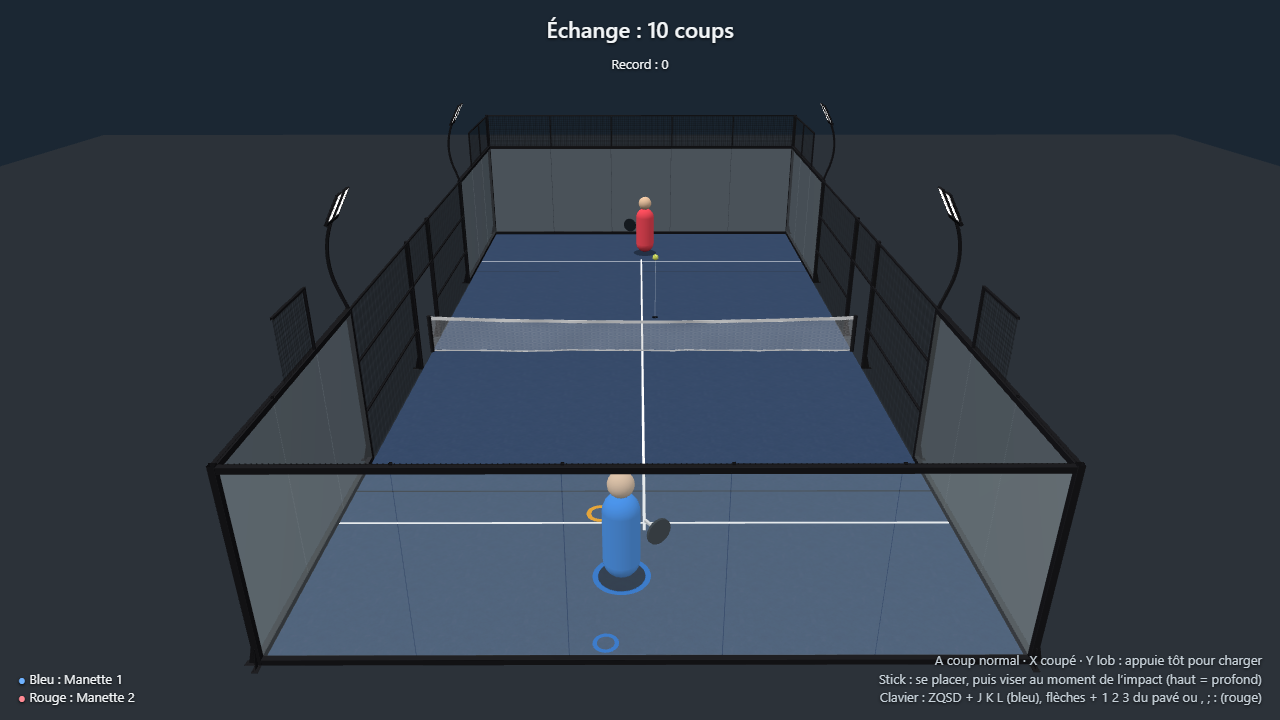
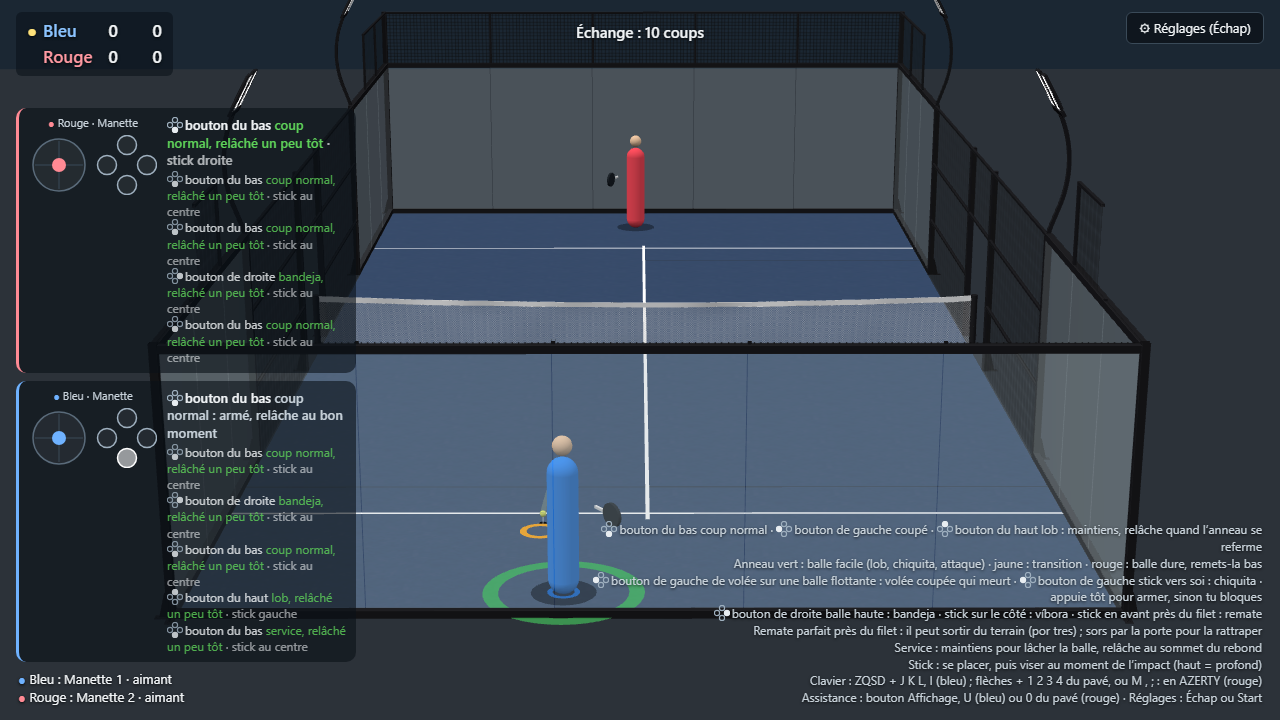
Proportions réelles et cadrage télé
- Balle de 6,5 cm, raquette réglementaire (45,5 cm, tamis 26 × 29 cm dans le plan du manche),
  joueur de 1,80 m à la silhouette plus fine.
- Comme dans Virtua Tennis ou Top Spin, la balle ne descend jamais sous 0,9 % de la hauteur de
  l'écran au loin, avec une traînée sur les balles rapides.
- Caméra de retransmission : téléobjectif à 8,7 m de haut, 20 m derrière le fond, champ de 20°,
  calé sur des images du Premier Padel ; le champ s'élargit sur les écrans moins larges que 16:9.

diff --git a/src/render/duelScene.ts b/src/render/duelScene.ts
@@ -1,5 +1,5 @@
 import * as THREE from 'three';
-import { HALF_LENGTH, SIM_DT } from '../sim/constants';
+import { BALL_RADIUS, HALF_LENGTH, SIM_DT } from '../sim/constants';
 import type { Duel, DuelPlayer } from '../sim/duel';
 import { predictBall } from '../sim/predict';
 import { ballColor, type BallColor } from '../sim/pressure';
@@ -19,17 +19,29 @@ const BALL_COLORS: Record<BallColor, number> = { verte: 0x46d160, jaune: 0xffd23
 /** Couleurs d'équipe vives, lisibles de loin (GAME_DESIGN.md §9). */
 export const TEAM_COLORS = [0x2f8cff, 0xff4f5e] as const;
 
-/** Balle surdimensionnée à l'écran pour rester lisible de loin. [à calibrer] */
-const BALL_DISPLAY_RADIUS = 0.075;
 /**
- * Caméra derrière le joueur du camp Z négatif, plus haute et plus reculée que dans Virtua Tennis
- * pour garder la vitre du fond dans le champ (GAME_DESIGN.md §8). [à calibrer]
+ * Caméra de retransmission télé, derrière le joueur du camp Z négatif (GAME_DESIGN.md §8) : téléobjectif
+ * placé haut et loin, qui aplatit la perspective (le joueur du fond reste grand) et cadre tout le
+ * terrain, vitres du fond comprises. Valeurs relevées sur des images du Premier Padel (Milan 2026) :
+ * ligne de fond proche sur ~76 % de la largeur d'une image 16:9, ligne de fond lointaine sur ~40 %.
  */
-const CAMERA_HEIGHT = 8.2;
-const CAMERA_BACK = HALF_LENGTH + 8.5;
-const CAMERA_FOV = 46;
-/** Part du déplacement latéral du joueur suivie par la caméra, et lissage (1/s). */
-const CAMERA_FOLLOW = 0.35;
+const CAMERA_HEIGHT = 8.7;
+const CAMERA_BACK = HALF_LENGTH + 20;
+const CAMERA_LOOK_Z = -0.4;
+/** Champ vertical (°) pour un écran 16:9 ; plus étroit, l'écran élargit le champ pour garder toute la largeur. */
+const CAMERA_FOV = 20;
+const CAMERA_ASPECT = 16 / 9;
+/**
+ * Comme dans Virtua Tennis ou Top Spin, la balle garde une taille lisible de loin : à sa vraie taille
+ * (6,5 cm) tant qu'elle paraît assez grosse, sinon agrandie pour couvrir au moins cette part de la
+ * hauteur de l'écran. Près du joueur proche, elle reste à l'échelle de la raquette. [à calibrer]
+ */
+const BALL_MIN_SCREEN = 0.009;
+/** Au-delà de cette vitesse (m/s), une traînée suit la balle, longue de sa course pendant `TRAIL_TIME` (s). */
+const TRAIL_SPEED = 12;
+const TRAIL_TIME = 0.04;
+/** Part du déplacement latéral du joueur suivie par la caméra, et lissage (1/s) : à peine, comme à la télé. */
+const CAMERA_FOLLOW = 0.15;
 const CAMERA_SMOOTHING = 4;
 /** Durée de l'animation de frappe (s). */
 const SWING_TIME = 0.28;
@@ -78,10 +90,11 @@ const RING_LEAD = 0.6;
 function createPlayerView(color: number): PlayerView {
   const object = new THREE.Group();
   const material = new THREE.MeshLambertMaterial({ color });
-  const body = new THREE.Mesh(new THREE.CapsuleGeometry(0.28, 0.85, 6, 16), material);
-  body.position.y = 0.28 + 0.425 + 0.05;
-  const head = new THREE.Mesh(new THREE.SphereGeometry(0.2, 20, 14), new THREE.MeshLambertMaterial({ color: 0xf1c9a5 }));
-  head.position.y = 1.62;
+  // Joueur de 1,80 m : corps de 34 cm de large en moyenne jusqu'au cou (1,56 m), tête de 22 cm.
+  const body = new THREE.Mesh(new THREE.CapsuleGeometry(0.17, 1.22, 6, 16), material);
+  body.position.y = 0.78;
+  const head = new THREE.Mesh(new THREE.SphereGeometry(0.11, 20, 14), new THREE.MeshLambertMaterial({ color: 0xf1c9a5 }));
+  head.position.y = 1.69;
   const shadow = new THREE.Mesh(
     new THREE.CircleGeometry(0.36, 24),
     new THREE.MeshBasicMaterial({ color: 0x000000, transparent: true, opacity: 0.35, depthWrite: false }),
@@ -89,16 +102,18 @@ function createPlayerView(color: number): PlayerView {
   shadow.rotation.x = -Math.PI / 2;
   shadow.position.y = 0.006;
 
-  // Raquette : tamis et manche, tenue sur le côté droit du joueur.
+  // Raquette aux dimensions réglementaires : 45,5 cm de long, tamis de 26 × 29 cm, 3,8 cm d'épaisseur.
+  // Tenue sur le côté droit du joueur, le manche vers l'avant (+Z), le tamis dans le plan YZ.
   const racket = new THREE.Group();
   const frame = new THREE.Mesh(
-    new THREE.CylinderGeometry(0.2, 0.2, 0.04, 20),
+    new THREE.CylinderGeometry(0.13, 0.13, 0.038, 32),
     new THREE.MeshLambertMaterial({ color: 0x20262c }),
   );
-  frame.rotation.x = Math.PI / 2;
-  frame.position.set(0, 0, 0.32);
-  const handle = new THREE.Mesh(new THREE.BoxGeometry(0.04, 0.04, 0.2), new THREE.MeshLambertMaterial({ color: 0xe8e8e8 }));
-  handle.position.set(0, 0, 0.1);
+  frame.rotation.z = Math.PI / 2;
+  frame.scale.set(1, 1, 1.12);
+  frame.position.set(0, 0, 0.165 + 0.145);
+  const handle = new THREE.Mesh(new THREE.BoxGeometry(0.03, 0.03, 0.165), new THREE.MeshLambertMaterial({ color: 0xe8e8e8 }));
+  handle.position.set(0, 0, 0.0825);
   racket.add(frame, handle);
   const pivot = new THREE.Group();
   pivot.position.set(0, 1.0, 0);
@@ -119,17 +134,28 @@ function createPlayerView(color: number): PlayerView {
   return { object, racket: pivot, timingRing, timingMaterial, standMarker, color };
 }
 
-/** Balle, ombre bien marquée et trait de hauteur : les repères de profondeur vus de loin. */
-function createBallView(): { object: THREE.Group; update(pos: Vec3 | null): void; setModel(model: THREE.Object3D): void } {
+/** Agrandissement à appliquer à un objet de diamètre `size` à cette position pour le voir à `BALL_MIN_SCREEN`. */
+function minScreenScale(camera: THREE.PerspectiveCamera, x: number, y: number, z: number, size: number): number {
+  const distance = camera.position.distanceTo(new THREE.Vector3(x, y, z));
+  const visibleHeight = 2 * distance * Math.tan(THREE.MathUtils.degToRad(camera.fov / 2));
+  return Math.max(1, (BALL_MIN_SCREEN * visibleHeight) / size);
+}
+
+/** Balle, ombre bien marquée, trait de hauteur et traînée : les repères de profondeur et de vitesse vus de loin. */
+function createBallView(): {
+  object: THREE.Group;
+  update(pos: Vec3 | null, vel: Vec3 | null, camera: THREE.PerspectiveCamera): void;
+  setModel(model: THREE.Object3D): void;
+} {
   const object = new THREE.Group();
   const sphere = new THREE.Group();
   const simple = new THREE.Mesh(
-    new THREE.SphereGeometry(BALL_DISPLAY_RADIUS, 24, 16),
+    new THREE.SphereGeometry(BALL_RADIUS, 24, 16),
     new THREE.MeshLambertMaterial({ color: 0xe4ff3a, emissive: 0x3a4a00 }),
   );
   sphere.add(simple);
   const shadow = new THREE.Mesh(
-    new THREE.CircleGeometry(BALL_DISPLAY_RADIUS * 1.3, 24),
+    new THREE.CircleGeometry(BALL_RADIUS * 1.15, 24),
     new THREE.MeshBasicMaterial({ color: 0x000000, transparent: true, opacity: 0.8, depthWrite: false }),
   );
   shadow.rotation.x = -Math.PI / 2;
@@ -137,25 +163,42 @@ function createBallView(): { object: THREE.Group; update(pos: Vec3 | null): void
     new THREE.CylinderGeometry(0.008, 0.008, 1, 6),
     new THREE.MeshBasicMaterial({ color: 0xffffff, transparent: true, opacity: 0.35, depthWrite: false }),
   );
-  object.add(sphere, shadow, heightLine);
+  // Traînée : cône allongé derrière la balle, de son diamètre à rien.
+  const trailMaterial = new THREE.MeshBasicMaterial({ color: 0xf4ffb0, transparent: true, opacity: 0.4, depthWrite: false });
+  const trail = new THREE.Mesh(new THREE.ConeGeometry(BALL_RADIUS, 1, 12, 1, true), trailMaterial);
+  const up = new THREE.Vector3(0, 1, 0);
+  const direction = new THREE.Vector3();
+  object.add(sphere, shadow, heightLine, trail);
   return {
     object,
     setModel(model: THREE.Object3D): void {
       sphere.remove(simple);
-      model.scale.multiplyScalar(BALL_DISPLAY_RADIUS / 0.0325);
       sphere.add(model);
     },
-    update(pos: Vec3 | null): void {
+    update(pos: Vec3 | null, vel: Vec3 | null, camera: THREE.PerspectiveCamera): void {
       object.visible = pos !== null;
       if (!pos) return;
       sphere.position.set(pos.x, pos.y, pos.z);
+      const scale = minScreenScale(camera, pos.x, pos.y, pos.z, 2 * BALL_RADIUS);
+      sphere.scale.setScalar(scale);
       // L'ombre rétrécit un peu avec la hauteur, sans jamais disparaître.
-      const s = 1 / (1 + pos.y * 0.12);
+      const s = (1 / (1 + pos.y * 0.12)) * minScreenScale(camera, pos.x, 0, pos.z, 2 * BALL_RADIUS);
       shadow.scale.set(s, s, s);
       shadow.position.set(pos.x, 0.009, pos.z);
       const height = Math.max(0.001, pos.y);
       heightLine.scale.set(1, height, 1);
       heightLine.position.set(pos.x, height / 2, pos.z);
+
+      const speed = vel ? Math.hypot(vel.x, vel.y, vel.z) : 0;
+      trail.visible = vel !== null && speed > TRAIL_SPEED;
+      if (!vel || !trail.visible) return;
+      // La pointe du cône (+Y) part vers l'arrière de la trajectoire.
+      direction.set(-vel.x, -vel.y, -vel.z).divideScalar(speed);
+      trail.quaternion.setFromUnitVectors(up, direction);
+      const length = speed * TRAIL_TIME;
+      trail.scale.set(scale, length, scale);
+      trail.position.set(pos.x, pos.y, pos.z).addScaledVector(direction, length / 2);
+      trailMaterial.opacity = 0.4 * Math.min(1, (speed - TRAIL_SPEED) / 8);
     },
   };
 }
@@ -211,6 +254,8 @@ export function createDuelView(canvas: HTMLCanvasElement, duel: Duel): DuelView 
     const height = canvas.clientHeight;
     renderer.setSize(width, height, false);
     camera.aspect = width / height;
+    const fovFactor = Math.max(1, CAMERA_ASPECT / camera.aspect);
+    camera.fov = THREE.MathUtils.radToDeg(2 * Math.atan(Math.tan(THREE.MathUtils.degToRad(CAMERA_FOV / 2)) * fovFactor));
     camera.updateProjectionMatrix();
   };
   window.addEventListener('resize', resize);
@@ -280,7 +325,7 @@ export function createDuelView(canvas: HTMLCanvasElement, duel: Duel): DuelView 
       shakeTime += frameTime;
       const jitter = shake * 0.06 * Math.sin(shakeTime * 70);
       camera.position.set(cameraX + jitter, CAMERA_HEIGHT + jitter * 0.5, -CAMERA_BACK);
-      camera.lookAt(cameraX * 0.6, 0, -0.5);
+      camera.lookAt(cameraX * 0.6, 0, CAMERA_LOOK_Z);
 
       players.forEach((view, i) => updatePlayer(view, duel.players[i]!, i as 0 | 1, alpha));
 
@@ -288,7 +333,7 @@ export function createDuelView(canvas: HTMLCanvasElement, duel: Duel): DuelView 
       let pos: Vec3 | null = null;
       if (simBall && prevBallPos) pos = lerp(prevBallPos, simBall.pos, alpha);
       else if (duel.phase === 'serve') pos = duel.servePosition();
-      ball.update(pos);
+      ball.update(pos, simBall && prevBallPos ? simBall.vel : null, camera);
 
       bounceMarker.visible = false;
       if (simBall && duel.phase === 'rally') {

diff --git a/GAME_DESIGN.md b/GAME_DESIGN.md
@@ -135,8 +135,12 @@ Au clavier : mêmes actions sur des touches, pour 1 ou 2 joueurs par clavier.
 
 ## 8. Caméra
 
-- Derrière l'équipe du joueur, comme dans VT, mais **plus haute et plus reculée** pour voir les
-  vitres du fond : tout le jeu tourne autour d'elles.
+- Derrière l'équipe du joueur, **cadrée comme une retransmission télé** : téléobjectif haut et loin
+  (8,7 m de haut, 20 m derrière le fond, champ de 20°). Tout le terrain et les vitres du fond restent
+  dans le champ, et la perspective aplatie garde le joueur du fond lisible.
+- Proportions réelles (joueur de 1,80 m, raquette de 45,5 cm). Seule la balle est agrandie au loin,
+  comme à la télé et dans VT ou Top Spin : jamais moins de 0,9 % de la hauteur de l'écran, avec une
+  traînée sur les balles rapides.
 - À 4 en local : caméra partagée derrière une équipe ; l'autre équipe joue côté lointain, comme
   dans VT en multijoueur.
 - Ombre de balle très marquée au sol et marqueur de hauteur pour lire la profondeur.
